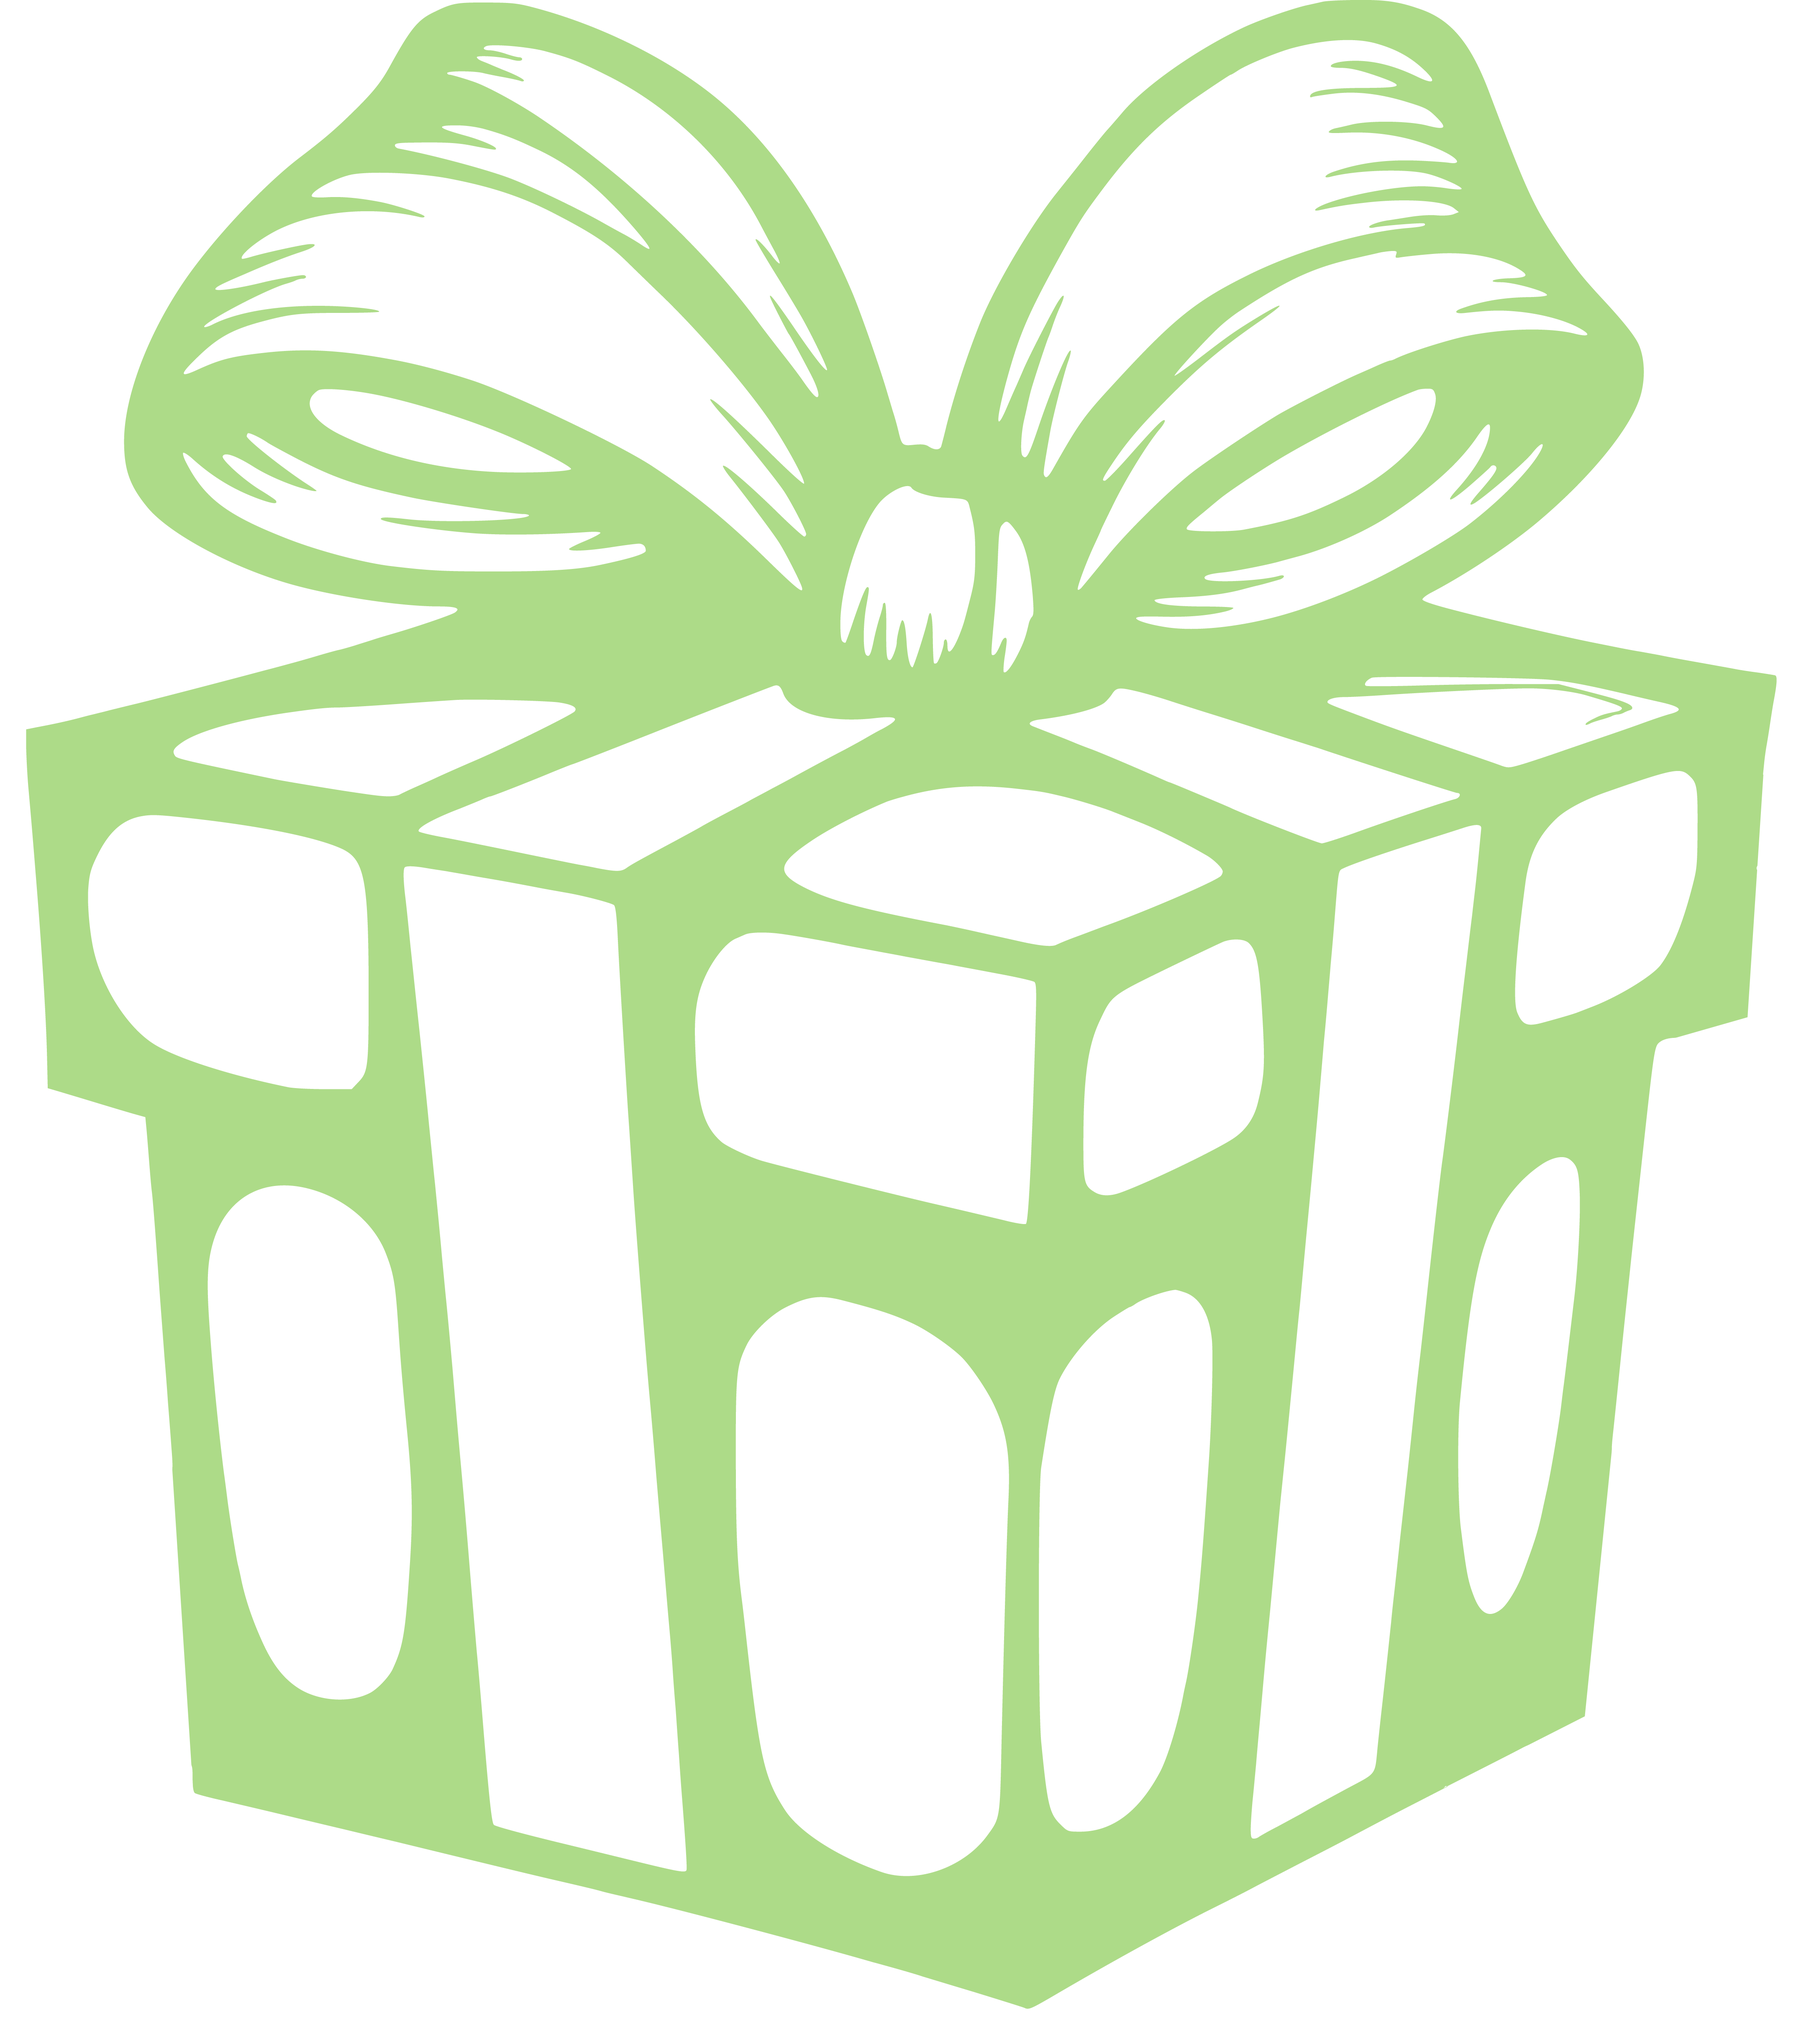
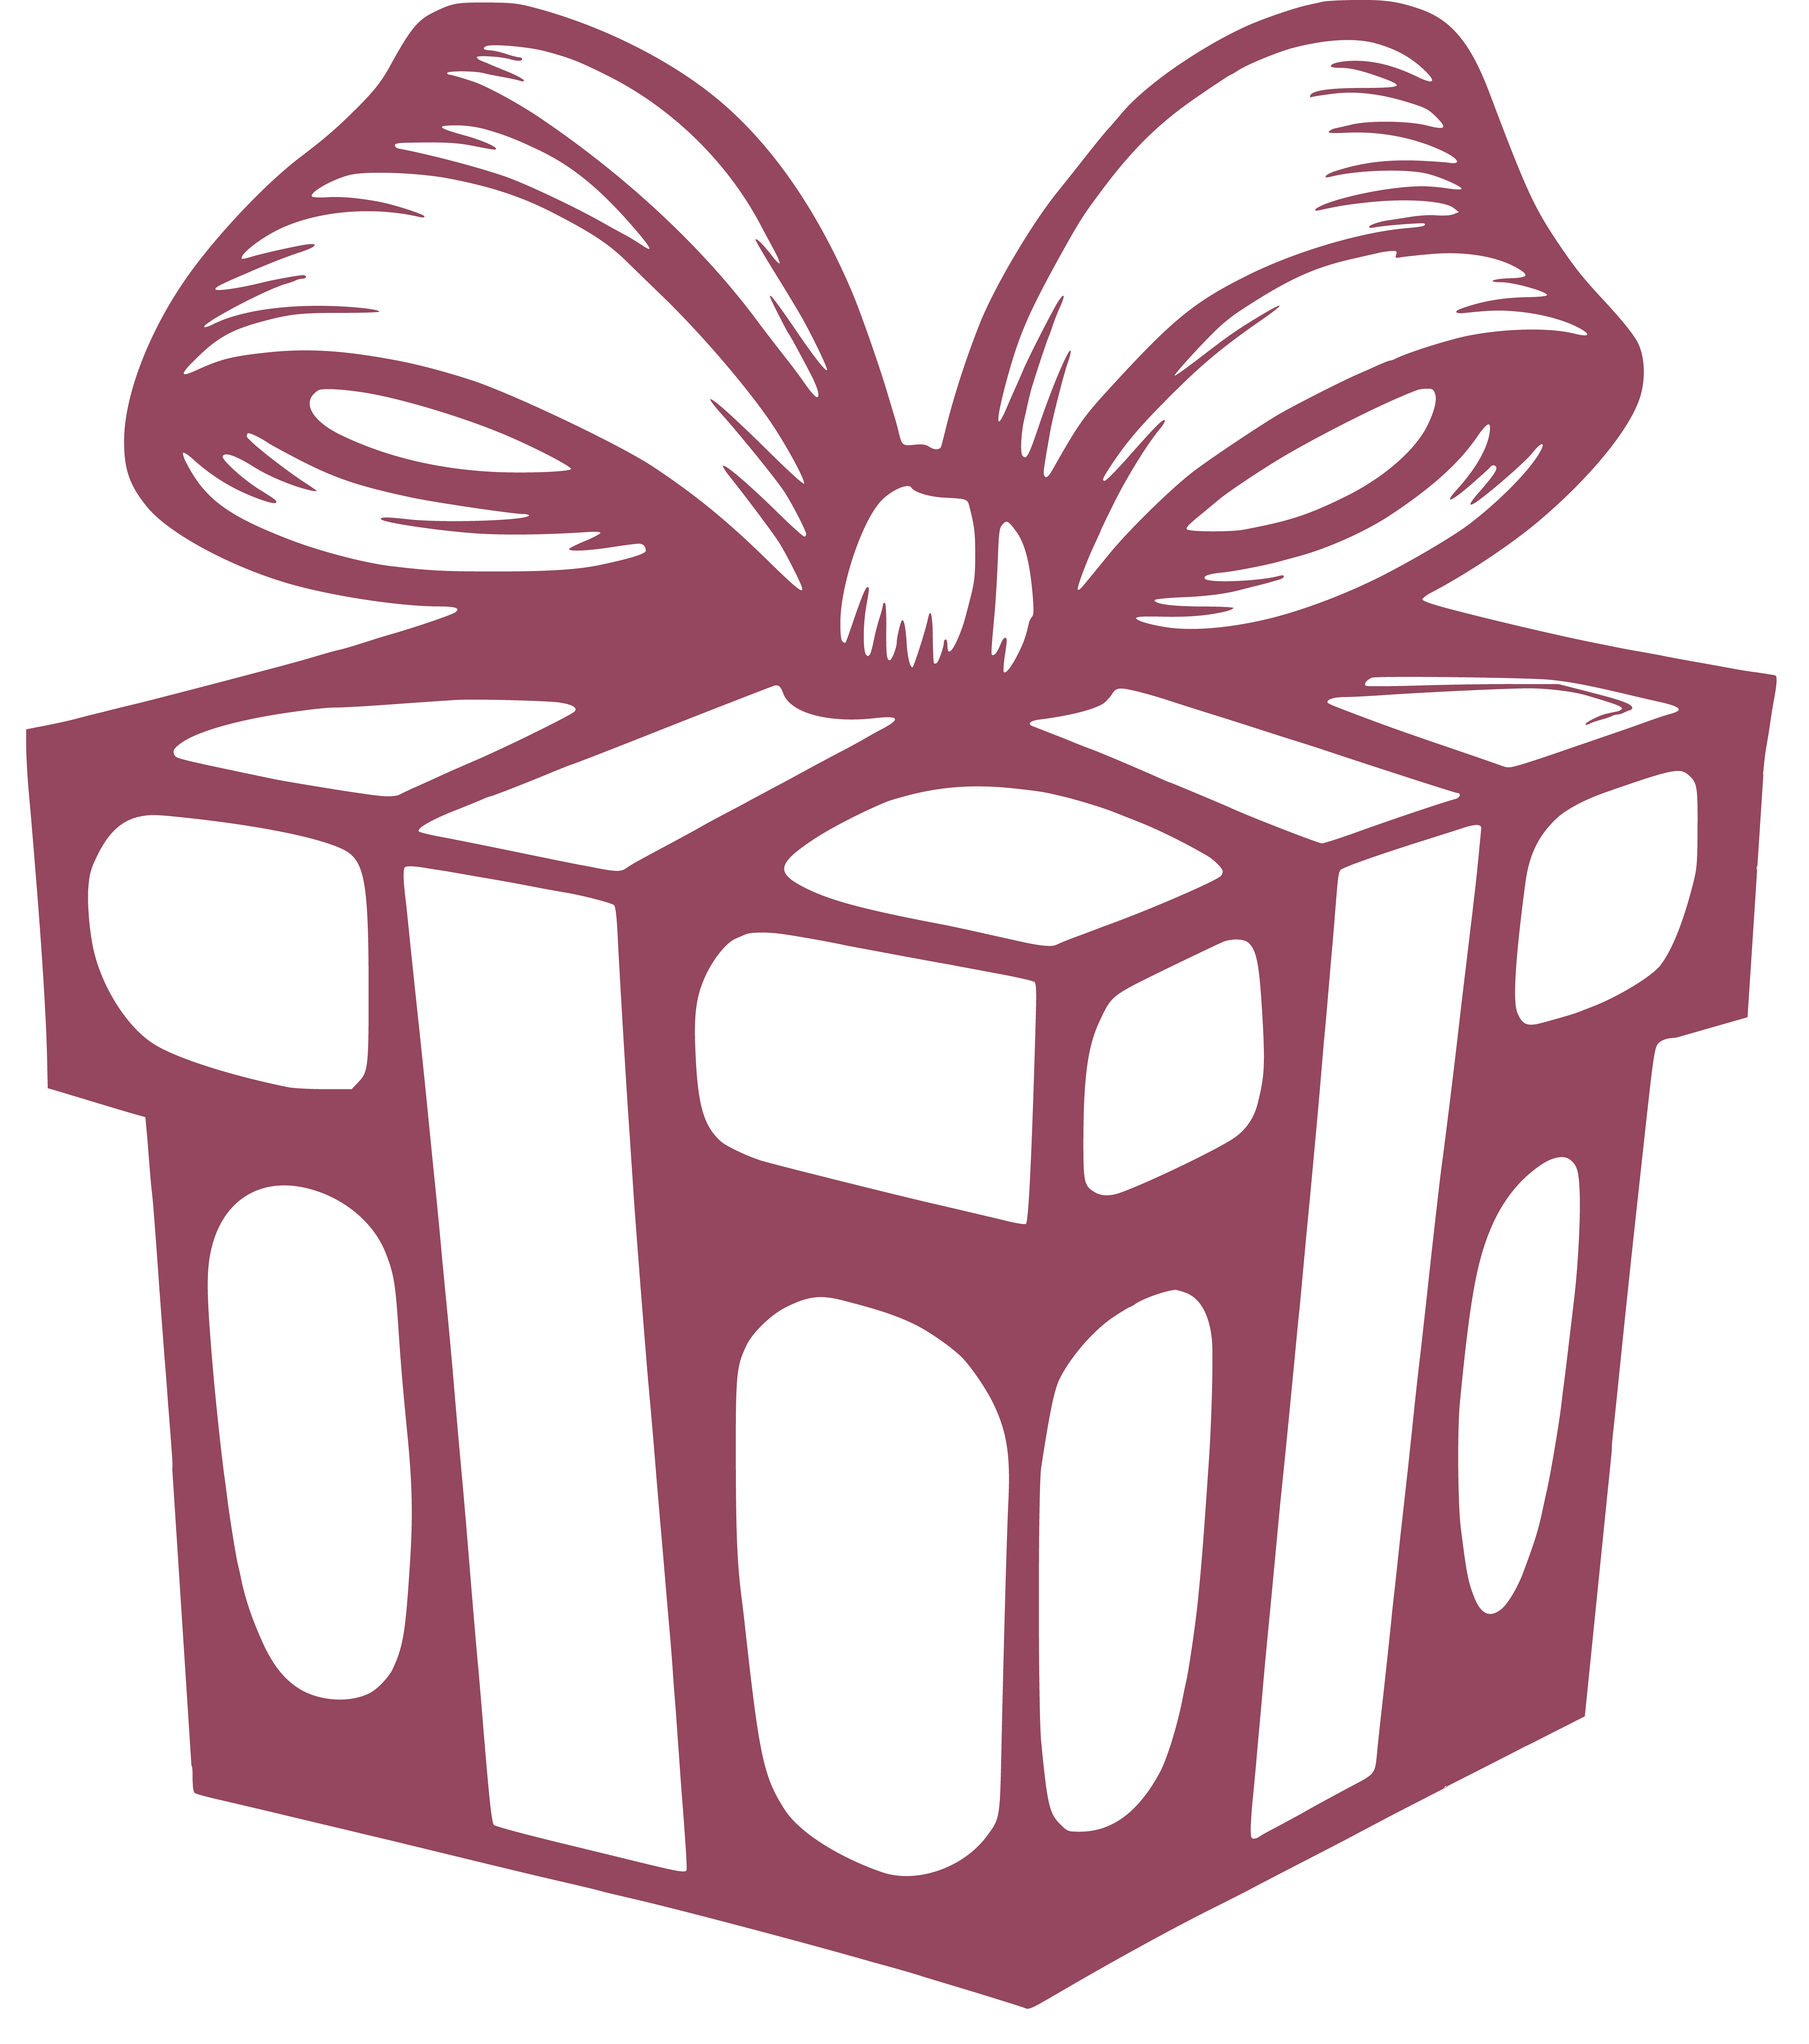
pink gift

diff --git a/app/components/BeautyQuiz.vue b/app/components/BeautyQuiz.vue
@@ -17,25 +17,35 @@
       <!-- Right side with quiz content -->
       <div class="pt-[120px] pb-16 flex flex-col w-full">
         <!-- Quiz header -->
-        <h2 class="text-add2-black text-6xl font-bold font-raleway mb-10">
-          Ответьте<br>
-          на 5 вопросов<br>
-          и получите <span class="text-add2-sat">подарок</span>
-        </h2>
+        <div class="relative w-[600px]">
+          <h2 class="text-add2-black text-6xl font-bold font-raleway mb-10">
+            Ответьте<br>
+            на 5 вопросов<br>
+            и получите <span class="text-add2-sat">подарок</span>
+          </h2>
+          <div class="absolute bottom-[32px] -right-[140px] h-[140px] w-[140px] gift-pulse">
+            <img
+              src="/images/gift.png"
+              alt="Подарок"
+              class="w-full h-full"
+            >
+          </div>
+        </div>
 
         <div class="mb-8 flex gap-16 w-full h-full">
           <!-- Progress steps -->
-          <div class="relative flex items-start min-w-[555px] mt-3">
+          <div class="relative flex gap items-start min-w-[555px] mt-3">
             <div
               v-for="step in totalSteps"
               :key="step"
               class="flex items-center"
             >
               <div
-                class="w-8 h-8 rounded-full flex items-center justify-center cursor-pointer transition-all"
+                class="w-8 h-8 mx-1 rounded-full flex items-center justify-center cursor-pointer transition-all font-medium"
                 :class="[
-                  step <= currentStep ? 'bg-[#94475E] text-white' : 'bg-[#454B57] text-gray-300',
-                  { 'ring-2 ring-[#94475E] ring-offset-2': step === currentStep },
+                  step < currentStep ? 'bg-[#94475E] text-white'
+                  : step === currentStep ? 'bg-[#ADDB88] text-add2-black ring-2 ring-add2-black'
+                    : 'bg-[#454B57] text-gray-300',
                 ]"
                 @click="goToStep(step)"
               >
@@ -555,6 +565,7 @@ onMounted(() => {
  * @param {number} step - The step number to navigate to
  */
 const goToStep = (step) => {
+  // Allow navigation to any previous step
   if (step <= currentStep.value) {
     currentStep.value = step;
     saveQuizData();

diff --git a/app/components/BeautyPromo.vue b/app/components/BeautyPromo.vue
@@ -136,13 +136,13 @@
                   class="w-full h-full"
                 >
               </div>
-              <div class="absolute -bottom-5 left-[240px] w-[140px] gift-pulse">
+              <!-- <div class="absolute -bottom-5 left-[240px] w-[140px] gift-pulse">
                 <img
                   src="/images/gift.png"
                   alt="Подарок"
                   class="w-full h-full"
                 >
-              </div>
+              </div> -->
               <div class="button-firefly-container">
                 <div class="button-with-reflection">
                   <button
@@ -302,15 +302,15 @@ const scrollToServices = () => {
 @keyframes giftPulse {
   0% {
     transform: scale(1);
-    filter: drop-shadow(0 0 8px rgba(147, 186, 115, 0.4));
+    filter: drop-shadow(0 0 8px rgba(148, 71, 94, 0.4));
   }
   50% {
     transform: scale(1.03);
-    filter: drop-shadow(0 0 12px rgba(147, 186, 115, 0.7));
+    filter: drop-shadow(0 0 12px rgba(148, 71, 94, 0.7));
   }
   100% {
     transform: scale(1);
-    filter: drop-shadow(0 0 8px rgba(147, 186, 115, 0.4));
+    filter: drop-shadow(0 0 8px rgba(148, 71, 94, 0.4));
   }
 }
 
